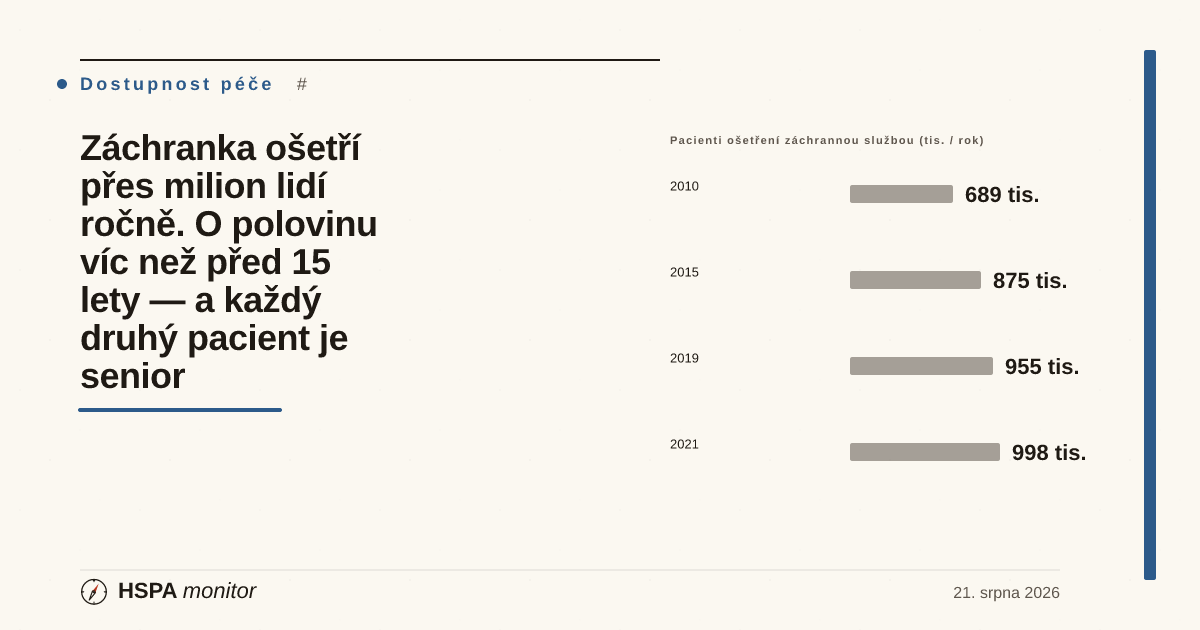
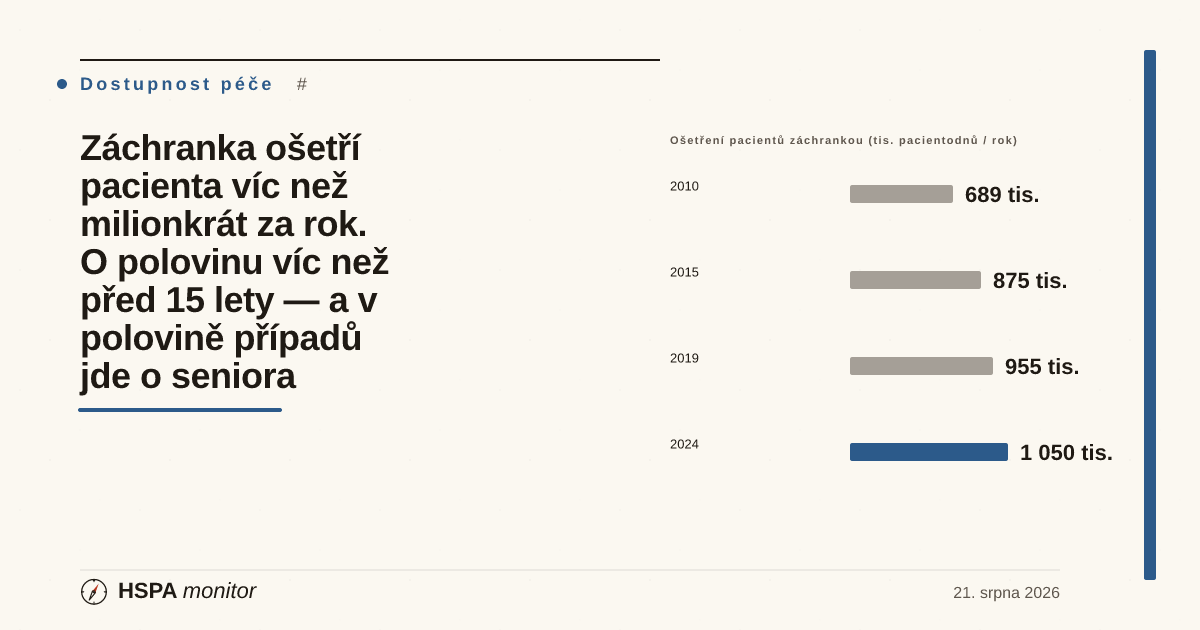
fix(indikátor): pacienti ZZS — jednotka pacientodny + rok 2024 na coveru (review PR #1028)
Reakce na Codex review:
- P1: hodnota je součet pacientodnů, ne počet unikátních osob — jednotka
  sjednocena na „tis. pacientodnů / rok" v seed záznamu i metodické kartě,
  titulek a texty článku přeformulovány na „ošetření" s explicitním
  vysvětlením počítání (opakovaně ošetření lidé se počítají vícekrát);
  claims aktualizovány.
- P2: generátor coveru bere max 4 řádky cover_viz — řádky zredukovány
  (2010/2015/2019/2024), rekordní rok 2024 je teď na coveru zvýrazněný.

Verifikace: validate:all OK, claims quotes dohledatelné, patient-story
audit OK, npm test 1001/0.

Claude-Session: https://claude.ai/code/session_012dJD9kr8TVRJgCM1jhGpS6

Changed region(s): [[0.0617, 0.2714, 0.3392, 0.6333], [0.7092, 0.6937, 0.925, 0.754], [0.555, 0.2111, 0.8633, 0.2413]]

diff --git a/05_M1_Starter/clanek-zachranka-milion-pacientu.html b/05_M1_Starter/clanek-zachranka-milion-pacientu.html
@@ -3,12 +3,12 @@
 <head>
 <meta charset="UTF-8">
 <meta name="viewport" content="width=device-width, initial-scale=1.0">
-<title>Záchranka ošetří přes milion lidí ročně. O polovinu víc než před 15 lety — a každý druhý pacient je senior · HSPA Monitor</title>
-<meta name="description" content="Posádky zdravotnické záchranné služby ošetřily v roce 2024 rekordních 1 050 tisíc pacientů — o 52 % víc než v roce 2010, zatímco populace vzrostla o necelá 4 procenta. Každý druhý pacient záchranky je dnes senior nad 65 let. Nový indikátor HSPA Monitoru měří objem poslední záchytné sítě systému — a ukazuje, že roste všechno, co ostatní části zdravotnictví nezachytí.">
+<title>Záchranka ošetří pacienta víc než milionkrát za rok. O polovinu víc než před 15 lety — a v polovině případů jde o seniora · HSPA Monitor</title>
+<meta name="description" content="Posádky zdravotnické záchranné služby vykázaly v roce 2024 rekordních 1 050 tisíc ošetření (pacientodnů) — o 52 % víc než v roce 2010, zatímco populace vzrostla o necelá 4 procenta. Každé druhé ošetření dnes připadá na seniora nad 65 let. Nový indikátor HSPA Monitoru měří objem poslední záchytné sítě systému — a ukazuje, že roste všechno, co ostatní části zdravotnictví nezachytí.">
 <meta name="robots" content="noindex, nofollow">
 <meta property="og:type" content="article">
-<meta property="og:title" content="Záchranka ošetří přes milion lidí ročně. O polovinu víc než před 15 lety — a každý druhý pacient je senior">
-<meta property="og:description" content="1 050 tisíc pacientů ošetřila ZZS v roce 2024 — rekord patnáctileté řady otevřených dat ÚZIS. Podíl seniorů 65+ vzrostl ze 45 % na 52 %. Záchranka je jediná služba dostupná 24/7, zdarma a bez objednání — a nasává poptávku, kterou nezachytí praktici ani pohotovosti. Co říká nový indikátor HSPA Monitoru.">
+<meta property="og:title" content="Záchranka ošetří pacienta víc než milionkrát za rok. O polovinu víc než před 15 lety — a v polovině případů jde o seniora">
+<meta property="og:description" content="1 050 tisíc ošetření (pacientodnů) vykázala ZZS v roce 2024 — rekord patnáctileté řady otevřených dat ÚZIS. Podíl seniorů 65+ vzrostl ze 45 % na 52 %. Záchranka je jediná služba dostupná 24/7, zdarma a bez objednání — a nasává poptávku, kterou nezachytí praktici ani pohotovosti. Co říká nový indikátor HSPA Monitoru.">
 <meta property="og:locale" content="cs_CZ">
 <meta property="article:published_time" content="2026-08-21">
 <meta property="article:section" content="Dostupnost péče">
@@ -18,7 +18,7 @@
     reviewer: claude-code-agent
     status: draft
     creation_phase: article-write (nový indikátor pacienti_osetreni_zzs z otevřených dat ÚZIS/NRHZS)
-    notes: "Nový monitoring indikátor: Pacienti ošetření zdravotnickou záchrannou službou (Výstupy / Akutní péče / Utilizace záchranné služby, dimenze dostupnost, direction context_dependent, signál neutral). PRIMÁRNÍ DATA: otevřená data ÚZIS NR-04-22 'Pacienti ošetření zdravotnickou záchrannou službou' (NRHZS), CSV distribuce data.mzcr.cz/data/distribuce/435/, staženo a agregováno 2026-08-21 (2 260 253 řádků, 2010–2024). Roční součty pocet_pacientodnu: 2010: 689 142; 2011: 715 847; 2012: 758 548; 2013: 799 915; 2014: 835 876; 2015: 874 891; 2016: 893 735; 2017: 906 999; 2018: 948 560; 2019: 954 658; 2020: 931 278; 2021: 998 347; 2022: 1 047 380; 2023: 1 007 775; 2024: 1 050 015. Podíl 65+: 2010: 44,8 % → 2024: 52,0 %; podíl 80+: 20,2 % → 23,3 % (vlastní agregace z vek_kod). Přepočty: +52,4 % růst 2010→2024; ~96 pacientů/1 000 obyv. 2024 (ČSÚ střední stav ~10,9 mil.), ~66/1 000 v 2010. BENCHMARK: narativní — EUSEM European Emergency Medicine in Numbers: průměr ~105,6 zásahů sanitních posádek/1 000 obyv., 167,9 volání/1 000 obyv. Definice výjezdu dle metodického popisu NR-04-22 v. 2024-1.1 (doklad 37, kódy 70/71/72/77/66/67; pacientoden = max 1 výjezd na pacienta a den; jen péče hrazená z v.z.p.). Hodnoty v textu sladěny s data/indicators.json (value 1050.0 tis., year 2024, trend 15 bodů, signal neutral). DRAFT, published:false, noindex — před publikací ověřit, zda ÚZIS nezveřejnil aktualizaci distribuce (rok 2025) a stav reformy pohotovostní služby."
+    notes: "Nový monitoring indikátor: Pacienti ošetření zdravotnickou záchrannou službou (Výstupy / Akutní péče / Utilizace záchranné služby, dimenze dostupnost, direction context_dependent, signál neutral). PRIMÁRNÍ DATA: otevřená data ÚZIS NR-04-22 'Pacienti ošetření zdravotnickou záchrannou službou' (NRHZS), CSV distribuce data.mzcr.cz/data/distribuce/435/, staženo a agregováno 2026-08-21 (2 260 253 řádků, 2010–2024). Roční součty pocet_pacientodnu: 2010: 689 142; 2011: 715 847; 2012: 758 548; 2013: 799 915; 2014: 835 876; 2015: 874 891; 2016: 893 735; 2017: 906 999; 2018: 948 560; 2019: 954 658; 2020: 931 278; 2021: 998 347; 2022: 1 047 380; 2023: 1 007 775; 2024: 1 050 015. Podíl 65+: 2010: 44,8 % → 2024: 52,0 %; podíl 80+: 20,2 % → 23,3 % (vlastní agregace z vek_kod). Přepočty: +52,4 % růst 2010→2024; ~96 pacientů/1 000 obyv. 2024 (ČSÚ střední stav ~10,9 mil.), ~66/1 000 v 2010. BENCHMARK: narativní — EUSEM European Emergency Medicine in Numbers: průměr ~105,6 zásahů sanitních posádek/1 000 obyv., 167,9 volání/1 000 obyv. Definice výjezdu dle metodického popisu NR-04-22 v. 2024-1.1 (doklad 37, kódy 70/71/72/77/66/67; pacientoden = max 1 výjezd na pacienta a den; jen péče hrazená z v.z.p.). Hodnoty v textu sladěny s data/indicators.json (value 1050.0 tis., year 2024, trend 15 bodů, signal neutral). DRAFT, published:false, noindex — před publikací ověřit, zda ÚZIS nezveřejnil aktualizaci distribuce (rok 2025) a stav reformy pohotovostní služby. REVIZE 2026-08-21 (review PR #1028): jednotka indikátoru sjednocena na pacientodny (tis. pacientodnů / rok) — text nikde netvrdí počet unikátních osob; cover_viz zredukován na 4 řádky, aby generátor coveru (bere max 4) zobrazil rekordní rok 2024."
 -->
 <meta name="article:audit-status" content="draft">
 <link rel="stylesheet" href="src/styles.min.css">
@@ -52,9 +52,9 @@
         <span class="article-tag">Dostupnost péče</span>
         <span class="article-tag article-tag-muted">záchranná služba · akutní péče · stárnutí · primární péče</span>
       </div>
-      <h1 class="article-title">Záchranka ošetří přes milion lidí ročně. O polovinu víc než před 15 lety — a každý druhý pacient je senior</h1>
+      <h1 class="article-title">Záchranka ošetří pacienta víc než milionkrát za rok. O polovinu víc než před 15 lety — a v polovině případů jde o seniora</h1>
       <p class="article-deck">
-        Posádky zdravotnické záchranné služby ošetřily v roce 2024 rekordních <strong>1 050 tisíc</strong> pacientů — o 52 % víc než v roce 2010, zatímco populace vzrostla o necelá 4 procenta. Změnila se i tvář pacienta: 52 % ošetřených pacientů tvoří lidé nad 65 let, ačkoli senioři jsou jen zhruba pětinou obyvatel. Nový indikátor HSPA Monitoru stojí na patnáctileté řadě otevřených dat ÚZIS a měří objem poslední záchytné sítě systému — služby, která jako jediná nikdy neodmítne, nedá objednací termín a přijede kamkoli.
+        Posádky zdravotnické záchranné služby vykázaly v roce 2024 rekordních <strong>1 050 tisíc</strong> ošetření — počítáno jako pacientodny: jeden pacient se započítá nejvýše jednou denně a lidé, k nimž záchranka jela ve více dnech roku, opakovaně. Je to o 52 % víc než v roce 2010, zatímco populace vzrostla o necelá 4 procenta. Změnila se i tvář pacienta: 52,0 procent ošetření připadá na seniory 65+, ačkoli senioři jsou jen zhruba pětinou obyvatel. Nový indikátor HSPA Monitoru stojí na patnáctileté řadě otevřených dat ÚZIS a měří objem poslední záchytné sítě systému — služby, která jako jediná nikdy neodmítne, nedá objednací termín a přijede kamkoli.
       </p>
       <div class="article-meta">
         <span class="article-meta-date">21. srpna 2026</span>
@@ -72,26 +72,26 @@
       </p>
 
       <figure class="av-figure" aria-labelledby="avCntH">
-        <figcaption class="av-figure-h" id="avCntH">Pacienti záchranné služby — 2024 v číslech</figcaption>
+        <figcaption class="av-figure-h" id="avCntH">Ošetření záchrannou službou — 2024 v číslech</figcaption>
         <div class="av-counter-grid">
           <div class="av-counter-block av-counter-block-warn">
             <span class="av-counter" data-value="1050" data-decimals="0">1 050</span>
-            <span class="av-counter-label">tisíc pacientů ošetřily posádky ZZS v roce 2024 — rekord celé patnáctileté řady</span>
-            <span class="av-counter-foot">poprvé přes milion se dostala už v roce 2022 (1 047,4 tis.)</span>
+            <span class="av-counter-label">tisíc ošetření (pacientodnů) vykázaly posádky ZZS v roce 2024 — rekord celé patnáctileté řady</span>
+            <span class="av-counter-foot">jeden pacient se počítá nejvýše jednou denně; poprvé přes milion už v roce 2022 (1 047,4 tis.)</span>
           </div>
           <div class="av-counter-block">
             <span class="av-counter" data-value="52" data-decimals="0">52</span>
-            <span class="av-counter-label">procent činí nárůst počtu pacientů od roku 2010 (689,1 tis.)</span>
+            <span class="av-counter-label">procent činí nárůst počtu ošetření od roku 2010 (689,1 tis.)</span>
             <span class="av-counter-foot">populace ČR za stejnou dobu vzrostla o necelá 4 procenta</span>
           </div>
           <div class="av-counter-block av-counter-block-warn">
             <span class="av-counter" data-value="52.0" data-decimals="1">52,0</span>
-            <span class="av-counter-label">procent pacientů záchranky tvoří senioři 65+ — v roce 2010 to bylo 44,8 %</span>
+            <span class="av-counter-label">procent ošetření připadá na seniory 65+ — v roce 2010 to bylo 44,8 %</span>
             <span class="av-counter-foot">senioři jsou přitom jen zhruba pětina populace; nejrychleji roste skupina 80+</span>
           </div>
           <div class="av-counter-block">
             <span class="av-counter" data-value="96" data-decimals="0">96</span>
-            <span class="av-counter-label">pacientů na 1 000 obyvatel ročně — poblíž evropského středu</span>
+            <span class="av-counter-label">ošetření na 1 000 obyvatel ročně — poblíž evropského středu</span>
             <span class="av-counter-foot">průměr evropských systémů je ~106 zásahů na 1 000 obyvatel (EUSEM); alarmující není úroveň, ale tempo</span>
           </div>
         </div>
@@ -100,7 +100,7 @@
 
       <h3>Co indikátor měří — a proč patří do dashboardu</h3>
       <p>
-        Indikátor sleduje počet pacientů ošetřených výjezdovými skupinami zdravotnické záchranné služby za rok. Vychází z otevřené datové sady ÚZIS ČR postavené nad Národním registrem hrazených zdravotních služeb (NRHZS) — tedy z dokladů, které záchranné služby vykazují zdravotním pojišťovnám. Jednotkou je „pacientoden“: jeden pacient ošetřený v jednom dni, bez ohledu na počet posádek, které u zásahu byly. Data jsou k dispozici od roku 2010, po měsících, s členěním podle kraje, pohlaví, pětiletých věkových skupin a skupin diagnóz — jde o jednu z nejlépe strukturovaných otevřených datových sad české akutní péče.
+        Indikátor sleduje roční objem ošetření pacientů výjezdovými skupinami zdravotnické záchranné služby. Vychází z otevřené datové sady ÚZIS ČR postavené nad Národním registrem hrazených zdravotních služeb (NRHZS) — tedy z dokladů, které záchranné služby vykazují zdravotním pojišťovnám. Jednotkou je „pacientoden“: jeden pacient ošetřený v jednom dni, bez ohledu na počet posádek, které u zásahu byly. Člověk, k němuž záchranka vyjela ve více dnech roku — typicky křehký senior —, se počítá opakovaně; indikátor tedy měří objem poskytnuté péče, ne počet unikátních osob, kterých je za rok méně. Data jsou k dispozici od roku 2010, po měsících, s členěním podle kraje, pohlaví, pětiletých věkových skupin a skupin diagnóz — jde o jednu z nejlépe strukturovaných otevřených datových sad české akutní péče.
       </p>
       <p>
         Proč měřit zrovna objem záchranky? Protože ZZS je poslední záchytná síť zdravotnictví: jediná služba, která má ze zákona povinnost dojet do 20 minut, funguje 24 hodin denně, nic nestojí a nikoho neodmítne. Dashboard dosud akutní péči sledoval ze strany rychlosti (dojezdový čas ZZS — <a href="indikator-dojezd_zzs.html">94,2 % výjezdů do 20 minut</a>) a výsledků (přežití po mimonemocniční zástavě srdce). Tento indikátor přidává třetí rozměr: kolik toho poslední síť ve skutečnosti nese. Každá slabina jinde v systému — plné ordinace praktiků, rušené pohotovosti, chybějící domácí péče, osamělost seniorů — se totiž dříve či později projeví jako výjezd sanitky.
@@ -108,17 +108,17 @@
 
       <h3>Patnáct let dat: z 689 tisíc na milion a padesát</h3>
       <p>
-        Řada je pozoruhodně monotónní: s výjimkou dvou let roste. Z 689,1 tisíce pacientů v roce 2010 na 954,7 tisíce v roce 2019 — to je růst o více než čtvrt milionu za dekádu, v průměru téměř 30 tisíc pacientů navíc každý rok. Covidový rok 2020 přinesl jediný výrazný pokles (931,3 tis., −2,4 % — část populace se v lockdownech bála volat a plánovaná péče stála), ale hned rok 2021 vrátil řadu na trajektorii a rok 2022 poprvé překonal milion. Po mírném poklesu v roce 2023 přišel rekord: 1 050 tisíc pacientů v roce 2024, tedy nárůst o 52 % proti roku 2010.
+        Řada je pozoruhodně monotónní: s výjimkou dvou let roste. Z 689,1 tisíce ošetření v roce 2010 na 954,7 tisíce v roce 2019 — to je růst o více než čtvrt milionu za dekádu, v průměru téměř 30 tisíc ošetření navíc každý rok. Covidový rok 2020 přinesl jediný výrazný pokles (931,3 tis., −2,4 % — část populace se v lockdownech bála volat a plánovaná péče stála), ale hned rok 2021 vrátil řadu na trajektorii a rok 2022 poprvé překonal milion. Po mírném poklesu v roce 2023 přišel rekord: 1 050 tisíc ošetření v roce 2024, tedy nárůst o 52 % proti roku 2010.
       </p>
 
       <figure class="av-figure av-figure-wide" aria-labelledby="avTabH">
-        <figcaption class="av-figure-h" id="avTabH">Pacienti ošetření ZZS 2010–2024 — řada indikátoru</figcaption>
+        <figcaption class="av-figure-h" id="avTabH">Ošetření pacientů ZZS 2010–2024 — řada indikátoru</figcaption>
         <div class="av-data-table-wrap">
           <table class="av-data-table">
             <thead>
               <tr>
                 <th scope="col">Rok</th>
-                <th scope="col" class="av-num">Pacienti (tis.)</th>
+                <th scope="col" class="av-num">Ošetření (tis. pacientodnů)</th>
                 <th scope="col" class="av-num">Podíl 65+ (%)</th>
                 <th scope="col">Kontext</th>
               </tr>
@@ -128,7 +128,7 @@
                 <td>2010</td>
                 <td class="av-num">689,1</td>
                 <td class="av-num">44,8</td>
-                <td>výchozí bod řady; ~66 pacientů na 1 000 obyvatel</td>
+                <td>výchozí bod řady; ~66 ošetření na 1 000 obyvatel</td>
               </tr>
               <tr>
                 <td>2015</td>
@@ -152,13 +152,13 @@
                 <td>2022</td>
                 <td class="av-num">1 047,4</td>
                 <td class="av-num">52,1</td>
-                <td>poprvé přes milion pacientů za rok</td>
+                <td>poprvé přes milion ošetření za rok</td>
               </tr>
               <tr>
                 <td><strong>2024</strong></td>
                 <td class="av-num"><strong>1 050,0</strong></td>
                 <td class="av-num"><strong>52,0</strong></td>
-                <td>rekord řady; ~96 pacientů na 1 000 obyvatel</td>
+                <td>rekord řady; ~96 ošetření na 1 000 obyvatel</td>
               </tr>
             </tbody>
           </table>
@@ -166,18 +166,18 @@
         <p class="av-figure-note"><strong>Zdroj:</strong> ÚZIS ČR — otevřená data NR-04-22 (NRHZS), roční součty pacientodnů; podíl 65+ vlastní agregace z věkových skupin. Plná patnáctiletá řada je v metodické kartě indikátoru.</p>
       </figure>
 
-      <h3>Kdo dnes jezdí sanitkou: každý druhý pacient je senior</h3>
+      <h3>Kdo dnes jezdí sanitkou: každé druhé ošetření patří seniorovi</h3>
       <p>
-        Ještě výmluvnější než celkový objem je struktura. V roce 2010 tvořili lidé nad 65 let 44,8 % pacientů záchranky; v roce 2024 už 52,0 %. Nejrychleji přitom roste nejstarší skupina: pacienti nad 80 let dnes tvoří 23,3 % všech ošetřených (v roce 2010 to bylo 20,2 %) — skoro každý čtvrtý pacient záchranky je člověk v devátém či desátém deceniu života. Demografická projekce říká, že tento posun bude pokračovat: silné ročníky sedmdesátých let teprve do věku intenzivního čerpání akutní péče vstoupí.
+        Ještě výmluvnější než celkový objem je struktura. V roce 2010 připadalo na lidi nad 65 let 44,8 % ošetření záchranky; v roce 2024 už 52,0 %. Nejrychleji přitom roste nejstarší skupina: na pacienty nad 80 let dnes připadá 23,3 % všech ošetření (v roce 2010 to bylo 20,2 %) — skoro každé čtvrté ošetření patří člověku v devátém či desátém deceniu života. Demografická projekce říká, že tento posun bude pokračovat: silné ročníky sedmdesátých let teprve do věku intenzivního čerpání akutní péče vstoupí.
       </p>
 
       <figure class="av-figure" aria-labelledby="avBarH">
-        <figcaption class="av-figure-h" id="avBarH">Podíl seniorů 65+ na pacientech ZZS (%)</figcaption>
+        <figcaption class="av-figure-h" id="avBarH">Podíl seniorů 65+ na ošetřeních ZZS (%)</figcaption>
         <ol class="av-bar-compare av-bar-compare-list" data-max="60" data-unit="%">
           <li class="av-bar-row" data-value="44.8" data-label="2010" data-note="senioři necelou polovinou klientely"></li>
           <li class="av-bar-row" data-value="48.7" data-label="2015" data-note="stárnutí populace se propisuje do výjezdů"></li>
           <li class="av-bar-row" data-value="51.3" data-label="2019" data-note="poprvé přes polovinu"></li>
-          <li class="av-bar-row av-bar-row-now" data-value="52.0" data-label="2024" data-note="každý druhý pacient záchranky; podíl 65+ v populaci je přitom ~20 %"></li>
+          <li class="av-bar-row av-bar-row-now" data-value="52.0" data-label="2024" data-note="každé druhé ošetření; podíl 65+ v populaci je přitom ~20 %"></li>
         </ol>
         <p class="av-figure-note"><strong>Zdroj:</strong> ÚZIS ČR — otevřená data NR-04-22 (NRHZS), vlastní agregace z pětiletých věkových skupin, 21. 8. 2026.</p>
       </figure>
@@ -187,12 +187,12 @@
         U tohoto indikátoru čtenář nenajde obvyklý sloupcový graf Česko vs. sousedé — a je to poctivější než ho kreslit. Systémy přednemocniční péče se mezi zeměmi liší tak zásadně, že se jejich statistiky nedají naskládat vedle sebe: někde jezdí k pacientům lékař (německý či rakouský model), jinde paramedici (Velká Británie, severské země); někde se počítají události, jinde výjezdy jednotlivých posádek, jinde ošetření pacienti; a hranice mezi záchrankou, sanitní dopravou a pohotovostní návštěvní službou vede v každé zemi jinudy. Přehled Evropské společnosti urgentní medicíny (EUSEM) proto uvádí jen orientační průměry: napříč evropskými systémy připadá zhruba 105,6 zásahů sanitních posádek a 167,9 volání na tísňové dispečinky na 1 000 obyvatel ročně, s obrovským rozpětím mezi zeměmi.
       </p>
       <p>
-        Česko je s přibližně 96 ošetřenými pacienty na 1 000 obyvatel poblíž evropského středu — nejde tedy o zemi, kde by se sanitkou jezdilo výjimečně mnoho. Systémová zpráva indikátoru je jinde: v tempu růstu (+52 % za 15 let) a ve struktuře (senioři). A také v tom, co se s poptávkou dá dělat: země, které investovaly do klinické telefonické triáže, umějí významnou část volání bezpečně vyřešit bez výjezdu — dánská Kodaň provozuje vedle tísňové linky zdravotnickou poradenskou linku 1813, jejíž lékaři a sestry rozhodují, zda pojede sanitka, pacient dostane termín na urgentním příjmu, nebo poradu po telefonu; britská NHS zase národní linku 111 pro stavy, které nesnesou odkladu, ale nejsou ohrožením života.
+        Česko je s přibližně 96 ošetřeními (pacientodny) na 1 000 obyvatel poblíž evropského středu — nejde tedy o zemi, kde by se sanitkou jezdilo výjimečně mnoho. Systémová zpráva indikátoru je jinde: v tempu růstu (+52 % za 15 let) a ve struktuře (senioři). A také v tom, co se s poptávkou dá dělat: země, které investovaly do klinické telefonické triáže, umějí významnou část volání bezpečně vyřešit bez výjezdu — dánská Kodaň provozuje vedle tísňové linky zdravotnickou poradenskou linku 1813, jejíž lékaři a sestry rozhodují, zda pojede sanitka, pacient dostane termín na urgentním příjmu, nebo poradu po telefonu; britská NHS zase národní linku 111 pro stavy, které nesnesou odkladu, ale nejsou ohrožením života.
       </p>
 
       <h3>Strukturální analýza: co všechno se schovává za jedním výjezdem</h3>
       <p>
-        <strong>První vrstva: demografie.</strong> Stárnutí populace je nejsilnější a nejpoctivější vysvětlení růstu. Křehký senior s několika chronickými nemocemi je přirozeným pacientem akutní péče: pád, dekompenzace srdečního selhání, cévní mozková příhoda, zhoršení dušnosti. Že senioři tvoří polovinu pacientů záchranky, není selhání — je to obraz stárnoucí země. Jenže demografie vysvětluje trend, ne celý jeho rozsah: počet obyvatel 65+ vzrostl od roku 2010 zhruba o třetinu, počet pacientů ZZS o polovinu.
+        <strong>První vrstva: demografie.</strong> Stárnutí populace je nejsilnější a nejpoctivější vysvětlení růstu. Křehký senior s několika chronickými nemocemi je přirozeným pacientem akutní péče: pád, dekompenzace srdečního selhání, cévní mozková příhoda, zhoršení dušnosti. Že na seniory připadá polovina ošetření záchranky, není selhání — je to obraz stárnoucí země. Jenže demografie vysvětluje trend, ne celý jeho rozsah: počet obyvatel 65+ vzrostl od roku 2010 zhruba o třetinu, počet ošetření ZZS o polovinu.
       </p>
       <p>
         <strong>Druhá vrstva: dostupnost primární péče.</strong> Záchranka nasává poptávku, kterou nezachytí ambulantní systém. Praktičtí lékaři tvoří jen <a href="indikator-podil_prakticti_lekari.html">16,9 % českých lékařů</a> (průměr OECD je 23 %), řada ordinací nepřijímá nové pacienty a ordinační doba typicky končí odpoledne. Odvratitelných hospitalizací — stavů jako dekompenzovaný diabetes či srdeční selhání, které by kvalitní ambulantní péče zvládla bez nemocnice — má Česko <a href="indikator-hospitalizace_acsc.html">592 na 100 000 obyvatel</a> proti 473 v OECD. Večer a o víkendu se k tomu přidává řídnoucí síť lékařské pohotovostní služby: tam, kde pohotovost skončila nebo je daleko, zbývá číslo 155.
@@ -212,12 +212,12 @@
         <strong>Druhá: klinická telefonická triáž.</strong> Dispečink, který smí a umí bezpečně rozhodnout „sanitka nepojede, uděláme toto“, je nejlevnější kapacita, jakou lze do akutní péče přidat. Dánský model 1813 i britská NHS 111 ukazují, že poradenská linka se zdravotníky dokáže odklonit podstatnou část poptávky bez zhoršení bezpečnosti — a současně dát lidem jistotu, že „nevolat záchranku“ neznamená „zůstat bez pomoci“. Česko má hustou síť zdravotnických operačních středisek; chybí jim zákonné ukotvení konzultační role a úhrada.
       </p>
       <p>
-        <strong>Třetí: prevence výjezdu u křehkých seniorů.</strong> Polovina klientely záchranky jsou senioři — a právě u nich je největší prostor výjezdu předejít: kapacitnější domácí zdravotní péče, návštěvní služba praktiků bonifikovaná úhradovou vyhláškou, komunitní a dlouhodobá péče, která rodinu podrží dřív, než se vyčerpá. Každý týden, o který se podaří odložit krizi křehkého seniora, je jeden výjezd a často i jedna hospitalizace méně. Indikátor s krajským a věkovým členěním umožňuje přesně cílit — a každý rok měřit, jestli se to daří.
+        <strong>Třetí: prevence výjezdu u křehkých seniorů.</strong> Polovina ošetření záchranky připadá na seniory — a právě u nich je největší prostor výjezdu předejít: kapacitnější domácí zdravotní péče, návštěvní služba praktiků bonifikovaná úhradovou vyhláškou, komunitní a dlouhodobá péče, která rodinu podrží dřív, než se vyčerpá. Každý týden, o který se podaří odložit krizi křehkého seniora, je jeden výjezd a často i jedna hospitalizace méně. Indikátor s krajským a věkovým členěním umožňuje přesně cílit — a každý rok měřit, jestli se to daří.
       </p>
 
       <h3>Co s tím</h3>
       <p>
-        Indikátor pacientů ošetřených záchrannou službou vstupuje do dashboardu s hodnotou <strong>1 050 tisíc</strong> (2024), neutrálním signálem a patnáctiletou řadou otevřených dat ÚZIS. Neutrální signál neznamená, že je vše v pořádku — znamená, že růst objemu záchranky nelze mechanicky číst jako dobrý či špatný. Snadné čtení zní: lidé záchranku zneužívají. Data říkají něco jiného: poptávka po poslední záchytné síti roste hlavně tam, kde stárne populace a kde slábnou ostatní části systému — primární péče, pohotovosti, domácí a dlouhodobá péče. Záchranka drží, dojíždí včas a nese o polovinu víc pacientů než před patnácti lety. Otázka pro zdravotní politiku nezní, jak lidem volání rozmluvit, ale jak vybudovat mezistupně, aby sanitka zůstala tím, čím má být: službou pro chvíle, kdy jde o život. Tenhle indikátor bude každý rok měřit, jestli se to daří.
+        Indikátor ošetření pacientů záchrannou službou vstupuje do dashboardu s hodnotou <strong>1 050 tisíc</strong> pacientodnů (2024), neutrálním signálem a patnáctiletou řadou otevřených dat ÚZIS. Neutrální signál neznamená, že je vše v pořádku — znamená, že růst objemu záchranky nelze mechanicky číst jako dobrý či špatný. Snadné čtení zní: lidé záchranku zneužívají. Data říkají něco jiného: poptávka po poslední záchytné síti roste hlavně tam, kde stárne populace a kde slábnou ostatní části systému — primární péče, pohotovosti, domácí a dlouhodobá péče. Záchranka drží, dojíždí včas a nese o polovinu víc ošetření než před patnácti lety. Otázka pro zdravotní politiku nezní, jak lidem volání rozmluvit, ale jak vybudovat mezistupně, aby sanitka zůstala tím, čím má být: službou pro chvíle, kdy jde o život. Tenhle indikátor bude každý rok měřit, jestli se to daří.
       </p>
 
     </div>
@@ -226,7 +226,7 @@
       <div class="ed-kicker">Data v tomto článku</div>
       <h4 class="article-databox-h">Indikátory HSPA Monitoru, ze kterých text vychází</h4>
       <ul class="article-databox-list">
-        <li><a href="indikator-pacienti_osetreni_zzs.html"><strong>Pacienti ošetření zdravotnickou záchrannou službou</strong></a> — 1 050,0 tis. (2024) · signál neutral — nový indikátor, roční řada ÚZIS/NRHZS od 2010</li>
+        <li><a href="indikator-pacienti_osetreni_zzs.html"><strong>Pacienti ošetření zdravotnickou záchrannou službou</strong></a> — 1 050,0 tis. pacientodnů (2024) · signál neutral — nový indikátor, roční řada ÚZIS/NRHZS od 2010</li>
         <li><a href="indikator-dojezd_zzs.html"><strong>Dojezdový čas ZZS (do 20 minut)</strong></a> — 94,2 % výjezdů (2024) · signál neutral — rychlost téže služby, jejíž objem měří nový indikátor</li>
         <li><a href="indikator-preziti_ohca_30d.html"><strong>Přežití po mimonemocniční zástavě srdce</strong></a> — 9,4 % (2022), OECD 12,8 % · signál bad — výsledková stránka akutního řetězce</li>
         <li><a href="indikator-hospitalizace_acsc.html"><strong>Odvratitelné hospitalizace (ACSC)</strong></a> — 592 / 100 000 (2022), OECD 473 · signál bad — poptávka, kterou nezachytila ambulantní péče</li>
@@ -255,7 +255,7 @@
         </ul>
       </div>
       <p class="article-sources-disclaimer">
-        <strong>Pozn. k údajům:</strong> Všechny hodnoty počtu pacientů (roční součty 2010–2024, podíly věkových skupin) jsou spočteny přímo z primární CSV distribuce ÚZIS 21. 8. 2026; jednotkou je pacientoden (nejvýše jeden výjezd na pacienta a den), takže osoby ošetřené vícekrát v roce se počítají opakovaně a data zahrnují pouze péči hrazenou z veřejného zdravotního pojištění. Přepočty na 1 000 obyvatel jsou redakční výpočet ze středních stavů obyvatelstva ČSÚ; hodnoty „~96“ a „~66“ jsou zaokrouhlené. Evropské průměry EUSEM jsou orientační (systémy nejsou metodicky srovnatelné) a neslouží jako číselný benchmark indikátoru — signál je proto neutral. Pokles v roce 2023 (−3,8 % po rekordu 2022) může být zčásti vykazovací efekt v NRHZS; metodická karta ho uvádí mezi limity.
+        <strong>Pozn. k údajům:</strong> Všechny hodnoty počtu ošetření (roční součty pacientodnů 2010–2024, podíly věkových skupin) jsou spočteny přímo z primární CSV distribuce ÚZIS 21. 8. 2026; jednotkou je pacientoden (nejvýše jeden výjezd na pacienta a den), takže osoby ošetřené vícekrát v roce se počítají opakovaně a data zahrnují pouze péči hrazenou z veřejného zdravotního pojištění. Přepočty na 1 000 obyvatel jsou redakční výpočet ze středních stavů obyvatelstva ČSÚ; hodnoty „~96“ a „~66“ jsou zaokrouhlené. Evropské průměry EUSEM jsou orientační (systémy nejsou metodicky srovnatelné) a neslouží jako číselný benchmark indikátoru — signál je proto neutral. Pokles v roce 2023 (−3,8 % po rekordu 2022) může být zčásti vykazovací efekt v NRHZS; metodická karta ho uvádí mezi limity.
       </p>
     </section>
 

diff --git a/05_M1_Starter/indikator-pacienti_osetreni_zzs.html b/05_M1_Starter/indikator-pacienti_osetreni_zzs.html
@@ -4,18 +4,18 @@
 <meta charset="UTF-8">
 <meta name="viewport" content="width=device-width, initial-scale=1.0">
 <title>Pacienti ošetření zdravotnickou záchrannou službou · HSPA Monitor</title>
-<meta name="description" content="Počet pacientů ošetřených výjezdovými skupinami zdravotnické záchranné služby (ZZS) za kalendářní rok, v tisících osob. Hodnota vychází z otevřené datové sady ÚZIS ČR „Pacienti ošetření zdravotnickou záchrannou službou“ postavené nad Národním registrem hrazených zdravotních služeb (NRHZS): jednotkou">
+<meta name="description" content="Roční objem ošetření pacientů výjezdovými skupinami zdravotnické záchranné služby (ZZS), měřený v tisících pacientodnů. Hodnota vychází z otevřené datové sady ÚZIS ČR „Pacienti ošetření zdravotnickou záchrannou službou“ postavené nad Národním registrem hrazených zdravotních služeb (NRHZS): jednotkou">
 <meta name="robots" content="noindex, follow">
 <link rel="canonical" href="https://skorezdravotnictvi.cz/indikator-pacienti_osetreni_zzs">
 <meta property="og:type" content="article">
 <meta property="og:title" content="Pacienti ošetření zdravotnickou záchrannou službou">
-<meta property="og:description" content="Počet pacientů ošetřených výjezdovými skupinami zdravotnické záchranné služby (ZZS) za kalendářní rok, v tisících osob. Hodnota vychází z otevřené datové sady ÚZIS ČR „Pacienti ošetření zdravotnickou záchrannou službou“ postavené nad Národním registrem hrazených zdravotních služeb (NRHZS): jednotkou">
+<meta property="og:description" content="Roční objem ošetření pacientů výjezdovými skupinami zdravotnické záchranné služby (ZZS), měřený v tisících pacientodnů. Hodnota vychází z otevřené datové sady ÚZIS ČR „Pacienti ošetření zdravotnickou záchrannou službou“ postavené nad Národním registrem hrazených zdravotních služeb (NRHZS): jednotkou">
 <meta property="og:url" content="https://skorezdravotnictvi.cz/indikator-pacienti_osetreni_zzs">
 <meta property="og:locale" content="cs_CZ">
 <meta property="og:image" content="https://skorezdravotnictvi.cz/assets/brand/og-default.png">
 <meta name="twitter:card" content="summary_large_image">
 <meta name="twitter:title" content="Pacienti ošetření zdravotnickou záchrannou službou">
-<meta name="twitter:description" content="Počet pacientů ošetřených výjezdovými skupinami zdravotnické záchranné služby (ZZS) za kalendářní rok, v tisících osob. Hodnota vychází z otevřené datové sady ÚZIS ČR „Pacienti ošetření zdravotnickou záchrannou službou“ postavené nad Národním registrem hrazených zdravotních služeb (NRHZS): jednotkou">
+<meta name="twitter:description" content="Roční objem ošetření pacientů výjezdovými skupinami zdravotnické záchranné služby (ZZS), měřený v tisících pacientodnů. Hodnota vychází z otevřené datové sady ÚZIS ČR „Pacienti ošetření zdravotnickou záchrannou službou“ postavené nad Národním registrem hrazených zdravotních služeb (NRHZS): jednotkou">
 <meta name="twitter:image" content="https://skorezdravotnictvi.cz/assets/brand/og-default.png">
 <link rel="stylesheet" href="src/styles.min.css">
 <link rel="alternate" type="application/rss+xml" title="HSPA Monitor — články" href="/feed.xml">
@@ -47,20 +47,20 @@
       <div class="ind-detail-kicker">Výstupy · Akutní péče · Utilizace záchranné služby · 2024</div>
       <h1>Pacienti ošetření zdravotnickou záchrannou službou</h1>
       <p class="ind-detail-status">Stav ověření: <strong>Ilustrativní</strong></p>
-      <p class="ind-detail-sub">Počet pacientů ošetřených výjezdovými skupinami zdravotnické záchranné služby (ZZS) za kalendářní rok, v tisících osob. Hodnota vychází z otevřené datové sady ÚZIS ČR „Pacienti ošetření zdravotnickou záchrannou službou“ postavené nad Národním registrem hrazených zdravotních služeb (NRHZS): jednotkou je pacientoden, tedy jeden pacient ošetřený ZZS v jednom dni (započítává se nejvýše 1 výjezd na pacienta a den; výjezd je definován doklady druhu 37 s kódy 70, 71, 72, 77, 66 nebo 67). Indikátor měří objem poptávky po přednemocniční neodkladné péči — kolik lidí ročně skutečně potřebuje (a dostane) zásah záchranné služby. Doplňuje existující indikátor dojezdového času ZZS: ten měří, jak rychle systém přijíždí, tento indikátor měří, kolik toho systém veze. Rostoucí objem není sám o sobě „špatný“ — odráží stárnutí populace i dostupnost služby — ale jeho tempo (+52 % za 15 let při růstu populace o ~4 %) je systémový signál o zátěži akutní péče a o tom, kam se přelévá poptávka, kterou nezachytí primární péče a pohotovostní služba.</p>
+      <p class="ind-detail-sub">Roční objem ošetření pacientů výjezdovými skupinami zdravotnické záchranné služby (ZZS), měřený v tisících pacientodnů. Hodnota vychází z otevřené datové sady ÚZIS ČR „Pacienti ošetření zdravotnickou záchrannou službou“ postavené nad Národním registrem hrazených zdravotních služeb (NRHZS): jednotkou je pacientoden, tedy jeden pacient ošetřený ZZS v jednom dni (započítává se nejvýše 1 výjezd na pacienta a den; výjezd je definován doklady druhu 37 s kódy 70, 71, 72, 77, 66 nebo 67). Indikátor měří objem poptávky po přednemocniční neodkladné péči — kolik ošetření záchranná služba ročně poskytne. Nejde o počet unikátních osob: člověk, k němuž záchranka vyjela ve více dnech roku, se počítá opakovaně. Doplňuje existující indikátor dojezdového času ZZS: ten měří, jak rychle systém přijíždí, tento indikátor měří, kolik toho systém veze. Rostoucí objem není sám o sobě „špatný“ — odráží stárnutí populace i dostupnost služby — ale jeho tempo (+52 % za 15 let při růstu populace o ~4 %) je systémový signál o zátěži akutní péče a o tom, kam se přelévá poptávka, kterou nezachytí primární péče a pohotovostní služba.</p>
     </header>
 
     <section class="ind-hero" aria-label="Aktuální hodnota">
-      <div class="ind-hero-value">1 050 <span class="ind-hero-unit">tis. pacientů / rok</span></div>
+      <div class="ind-hero-value">1 050 <span class="ind-hero-unit">tis. pacientodnů / rok</span></div>
       <div class="ind-hero-signal">Signál: neutrální</div>
       <table class="ind-benchmark-table">
         <caption>Srovnání (rok 2024)</caption>
-        <tbody><tr><th scope="row">Česko</th><td>1 050 tis. pacientů / rok</td></tr></tbody>
+        <tbody><tr><th scope="row">Česko</th><td>1 050 tis. pacientodnů / rok</td></tr></tbody>
       </table>
     </section>
 
-    <section class="ind-section"><h2>Proč na tom záleží</h2><p>Záchranná služba je poslední záchytná síť zdravotního systému — jediná služba, která nikdy neodmítne, nedá objednací termín a přijede kamkoli. Právě proto je objem jejích pacientů citlivým měřítkem výkonnosti celého systému: každá slabina v primární péči, pohotovostech, dlouhodobé péči o seniory nebo duševním zdraví se dříve či později projeví jako výjezd. Růst o polovinu za 15 let při téměř stagnující populaci znamená, že akutní přednemocniční péče absorbuje strukturální posuny — stárnutí, osamělost, nedostupnost ambulancí — a její kapacity (posádky, dispečinky, urgentní příjmy, návazná lůžka) rostou pomaleji než poptávka. Z pohledu HSPA jde o dimenzi dostupnosti (ZZS je bezbariérový vstup do systému) i efektivity (výjezd sanitky je nejdražší způsob, jak ošetřit stav zvládnutelný v ambulanci). Indikátor navíc stojí na plně otevřených datech ÚZIS s patnáctiletou řadou a granularitou kraj × věk × diagnóza — patří k nejlépe podloženým datovým sadám české akutní péče.</p></section>
-    <section class="ind-section"><h2>Co hodnotu ovlivňuje</h2><p><strong>Demografie.</strong> Rozhodujícím tahounem růstu je stárnutí populace: pacienti 65+ tvořili v roce 2010 necelých 45 % klientely ZZS, v roce 2024 už 52,0 %, a nejrychleji roste skupina 80+ (23,3 % pacientů). Křehcí senioři žijící sami doma jsou typickým opakovaným pacientem záchranky — pád, dekompenzace chronické nemoci, zhoršení dušnosti.</p>
+    <section class="ind-section"><h2>Proč na tom záleží</h2><p>Záchranná služba je poslední záchytná síť zdravotního systému — jediná služba, která nikdy neodmítne, nedá objednací termín a přijede kamkoli. Právě proto je objem jejích ošetření citlivým měřítkem výkonnosti celého systému: každá slabina v primární péči, pohotovostech, dlouhodobé péči o seniory nebo duševním zdraví se dříve či později projeví jako výjezd. Růst o polovinu za 15 let při téměř stagnující populaci znamená, že akutní přednemocniční péče absorbuje strukturální posuny — stárnutí, osamělost, nedostupnost ambulancí — a její kapacity (posádky, dispečinky, urgentní příjmy, návazná lůžka) rostou pomaleji než poptávka. Z pohledu HSPA jde o dimenzi dostupnosti (ZZS je bezbariérový vstup do systému) i efektivity (výjezd sanitky je nejdražší způsob, jak ošetřit stav zvládnutelný v ambulanci). Indikátor navíc stojí na plně otevřených datech ÚZIS s patnáctiletou řadou a granularitou kraj × věk × diagnóza — patří k nejlépe podloženým datovým sadám české akutní péče.</p></section>
+    <section class="ind-section"><h2>Co hodnotu ovlivňuje</h2><p><strong>Demografie.</strong> Rozhodujícím tahounem růstu je stárnutí populace: na pacienty 65+ připadalo v roce 2010 necelých 45 % ošetření ZZS, v roce 2024 už 52,0 %, a nejrychleji roste skupina 80+ (23,3 % ošetření). Křehcí senioři žijící sami doma jsou typickým opakovaným pacientem záchranky — pád, dekompenzace chronické nemoci, zhoršení dušnosti.</p>
 <p><strong>Dostupnost primární péče a pohotovostí.</strong> Záchranka je jediná část systému, která má ze zákona povinnost dojet do 20 minut, 24/7 a zdarma. Kde je praktický lékař nedostupný (plné kapacity, ordinační doba do odpoledne) a lékařská pohotovostní služba daleko nebo zrušená, přelévá se poptávka na linku 155 — včetně stavů, které by zvládla ambulance. Utilizace ZZS je tak nepřímým teploměrem slabin primární péče a pohotovostní sítě.</p>
 <p><strong>Organizace akutní péče.</strong> Síť urgentních příjmů, telefonická triáž na dispečinku a možnost ponechat pacienta doma po telefonické konzultaci určují, kolik volání skončí výjezdem. Země se silnou telefonickou triáží (dánská linka 1813, britská NHS 111) dokážou část poptávky odklonit bez výjezdu.</p>
 <p><strong>Sociální faktory.</strong> Osamělost seniorů, nedostupnost sociálních služeb a domácí péče zvyšují počet volání, u nichž je zdravotní složka až druhotná; posádky ZZS je přesto musí obsloužit.</p></section>
@@ -68,12 +68,12 @@
     <section class="ind-section">
       <h2>Metodika</h2>
       <dl class="ind-meta-list">
-<div class="ind-meta-row"><dt>Definice</dt><dd>Počet pacientů ošetřených výjezdovými skupinami zdravotnické záchranné služby (ZZS) za kalendářní rok, v tisících osob. Hodnota vychází z otevřené datové sady ÚZIS ČR „Pacienti ošetření zdravotnickou záchrannou službou“ postavené nad Národním registrem hrazených zdravotních služeb (NRHZS): jednotkou je pacientoden, tedy jeden pacient ošetřený ZZS v jednom dni (započítává se nejvýše 1 výjezd na pacienta a den; výjezd je definován doklady druhu 37 s kódy 70, 71, 72, 77, 66 nebo 67). Indikátor měří objem poptávky po přednemocniční neodkladné péči — kolik lidí ročně skutečně potřebuje (a dostane) zásah záchranné služby. Doplňuje existující indikátor dojezdového času ZZS: ten měří, jak rychle systém přijíždí, tento indikátor měří, kolik toho systém veze. Rostoucí objem není sám o sobě „špatný“ — odráží stárnutí populace i dostupnost služby — ale jeho tempo (+52 % za 15 let při růstu populace o ~4 %) je systémový signál o zátěži akutní péče a o tom, kam se přelévá poptávka, kterou nezachytí primární péče a pohotovostní služba.</dd></div>
-<div class="ind-meta-row"><dt>Jednotka</dt><dd>tis. pacientů / rok</dd></div>
+<div class="ind-meta-row"><dt>Definice</dt><dd>Roční objem ošetření pacientů výjezdovými skupinami zdravotnické záchranné služby (ZZS), měřený v tisících pacientodnů. Hodnota vychází z otevřené datové sady ÚZIS ČR „Pacienti ošetření zdravotnickou záchrannou službou“ postavené nad Národním registrem hrazených zdravotních služeb (NRHZS): jednotkou je pacientoden, tedy jeden pacient ošetřený ZZS v jednom dni (započítává se nejvýše 1 výjezd na pacienta a den; výjezd je definován doklady druhu 37 s kódy 70, 71, 72, 77, 66 nebo 67). Indikátor měří objem poptávky po přednemocniční neodkladné péči — kolik ošetření záchranná služba ročně poskytne. Nejde o počet unikátních osob: člověk, k němuž záchranka vyjela ve více dnech roku, se počítá opakovaně. Doplňuje existující indikátor dojezdového času ZZS: ten měří, jak rychle systém přijíždí, tento indikátor měří, kolik toho systém veze. Rostoucí objem není sám o sobě „špatný“ — odráží stárnutí populace i dostupnost služby — ale jeho tempo (+52 % za 15 let při růstu populace o ~4 %) je systémový signál o zátěži akutní péče a o tom, kam se přelévá poptávka, kterou nezachytí primární péče a pohotovostní služba.</dd></div>
+<div class="ind-meta-row"><dt>Jednotka</dt><dd>tis. pacientodnů / rok</dd></div>
 <div class="ind-meta-row"><dt>Směr</dt><dd>závisí na kontextu</dd></div>
 <div class="ind-meta-row"><dt>Frekvence</dt><dd>ročně</dd></div>
 <div class="ind-meta-row"><dt>Garanti dat</dt><dd>ÚZIS ČR (NRHZS, otevřená data NR-04-22), kraje — zřizovatelé ZZS (zákon č. 374/2011 Sb., plán pokrytí území výjezdovými základnami), MZ ČR (úhradová vyhláška, koncepce urgentních příjmů, lékařská pohotovostní služba), AZZS ČR (Asociace zdravotnických záchranných služeb ČR)</dd></div>
-<div class="ind-meta-row"><dt>Metodická poznámka</dt><dd>Hodnota 2024: 1 050,0 tis. pacientů (přesně 1 050 015 pacientodnů) — dosud nejvyšší v řadě. Řada 2010–2024 je spočtena přímo z primární CSV distribuce (roční součet pocet_pacientodnu, ověřeno 2026-08-21): růst z 689,1 tis. (2010) na 1 050,0 tis. (2024) je +52,4 %, zatímco populace ČR vzrostla za stejné období o necelá 4 %. Přepočet na obyvatele: zhruba 96 pacientů na 1 000 obyvatel (2024, střední stav obyvatelstva ČSÚ ~10,9 mil.) proti ~66 na 1 000 v roce 2010. Struktura: podíl pacientů 65+ vzrostl z 44,8 % (2010) na 52,0 % (2024), podíl 80+ z 20,2 % na 23,3 % — polovinu klientely záchranky dnes tvoří senioři, kteří jsou přitom jen ~pětinou populace. Covidový rok 2020 přinesl jediný výrazný pokles řady (−2,4 % meziročně, odklad péče); pokles 2023 (−3,8 % po rekordu 2022) a návrat na rekord 2024 je třeba číst opatrně — může jít zčásti o vykazovací efekt v NRHZS. Signál je neutral: direction je context_dependent (růst může znamenat horší dostupnost jiných částí systému i lepší dostupnost ZZS) a číselný mezinárodní benchmark neexistuje; indikátor slouží jako monitoring zátěže akutní přednemocniční péče.</dd></div>
+<div class="ind-meta-row"><dt>Metodická poznámka</dt><dd>Hodnota 2024: 1 050,0 tis. pacientodnů (přesně 1 050 015; pacientoden = jeden pacient ošetřený v jednom dni, osoby ošetřené ve více dnech roku se počítají opakovaně) — dosud nejvyšší v řadě. Řada 2010–2024 je spočtena přímo z primární CSV distribuce (roční součet pocet_pacientodnu, ověřeno 2026-08-21): růst z 689,1 tis. (2010) na 1 050,0 tis. (2024) je +52,4 %, zatímco populace ČR vzrostla za stejné období o necelá 4 %. Přepočet na obyvatele: zhruba 96 ošetření na 1 000 obyvatel (2024, střední stav obyvatelstva ČSÚ ~10,9 mil.) proti ~66 na 1 000 v roce 2010. Struktura: podíl ošetření pacientů 65+ vzrostl z 44,8 % (2010) na 52,0 % (2024), podíl 80+ z 20,2 % na 23,3 % — polovinu klientely záchranky dnes tvoří senioři, kteří jsou přitom jen ~pětinou populace. Covidový rok 2020 přinesl jediný výrazný pokles řady (−2,4 % meziročně, odklad péče); pokles 2023 (−3,8 % po rekordu 2022) a návrat na rekord 2024 je třeba číst opatrně — může jít zčásti o vykazovací efekt v NRHZS. Signál je neutral: direction je context_dependent (růst může znamenat horší dostupnost jiných částí systému i lepší dostupnost ZZS) a číselný mezinárodní benchmark neexistuje; indikátor slouží jako monitoring zátěže akutní přednemocniční péče.</dd></div>
 <div class="ind-meta-row"><dt>Omezení</dt><dd>1. **Pacientodny, ne unikátní osoby** — jednotkou je pacient ošetřený v jednom dni; člověk ošetřený vícekrát v roce (typicky křehcí senioři, opakovaná volání) se počítá opakovaně. Skutečný počet unikátních osob za rok je nižší. 2. **Jen péče hrazená z veřejného zdravotního pojištění** — NRHZS nezachycuje výjezdy k nepojištěným osobám a samoplátcům (cizinci mimo systém v.z.p.); reálný objem činnosti ZZS je o něco vyšší. 3. **Vykazovací artefakty** — řada vzniká z pojišťovenských dokladů; změny ve vykazování a revizích mohou způsobit meziroční výkyvy nesouvisející s reálnou poptávkou (kandidátem je pokles 2023). 4. **Bez rozlišení závažnosti** — datová sada nerozlišuje indikované a neindikované zásahy ani závažnost stavu; růst objemu proto nelze automaticky číst jako růst neodkladných stavů. 5. **Mezinárodní srovnání jen orientační** — definice výjezdu, organizace systému i způsob počítání pacientů se mezi zeměmi zásadně liší, proto je benchmark pojat narativně (EUSEM průměr ~106 zásahů na 1 000 obyvatel). 6. **Kraj pracoviště, ne bydliště pacienta** — regionální řezy vypovídají o zátěži krajských ZZS, ne přesně o čerpání péče obyvateli kraje.</dd></div>
       </dl>
     </section>
